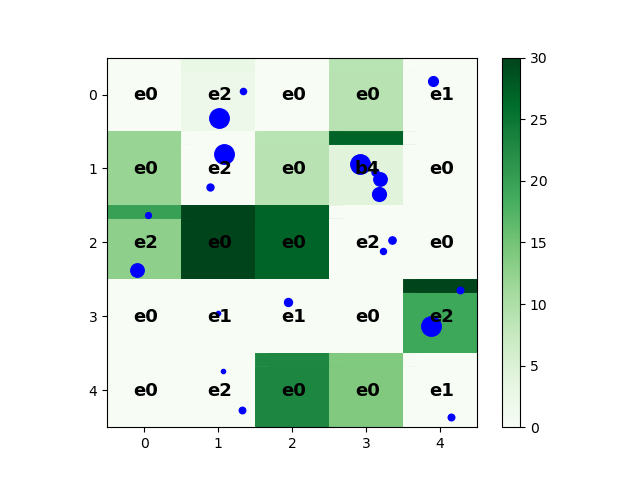
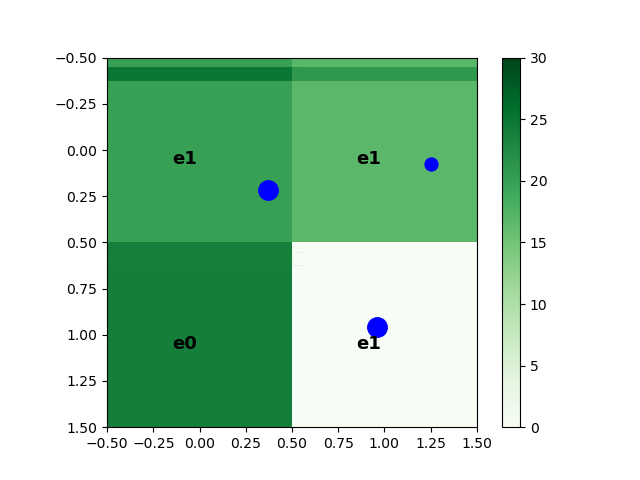
testing different cie values

diff --git a/classScientist.py b/classScientist.py
@@ -20,10 +20,29 @@ class Scientist():
         return overall
 
     def probCell(self, board, weights):
-        # Define the weights
-        c = weights["citation"] * (1/self.citcount)
-        i = weights["impact"] * (1/self.impact)
+        """"generates a probability distribution over the cells"""
+        citToCareer = (self.citcount-(31 - self.career))
+        # if they have a low citToCareer difference, then they value citations more
+        if citToCareer < 0:
+            c = weights["citation"] * abs(citToCareer)
+        elif citToCareer == 0:
+            c = weights["citation"]
+        # if they have a high citToCareer difference, then they value citations less
+        else:
+            c = weights["citation"] * (1/citToCareer)
+
+        impactToCareer = (self.impact-(31 - self.career))
+        # if they have a low impactToCareer difference, then they value impact more
+        if impactToCareer < 0:
+            i = weights["impact"] * abs(impactToCareer)
+        elif impactToCareer == 0:
+            i = weights["impact"]
+        # if they have a high impactToCareer difference, then they value impact less
+        else:
+            i = weights["impact"] * (1/impactToCareer)
+
         e = weights["exploration"]
+        print("cie: ", c, i, e)
 
         # Calculate the probabilities for each cell
         probabilities = np.zeros_like(board.board)
@@ -54,7 +73,7 @@ class Scientist():
         flatProbs = [item for sublist in probs for item in sublist]
         flatBoard = [board.board[i][j].location for j in range(board.cols) for i in range(board.rows)]
         choice = random.choices(flatBoard, weights=flatProbs, k=1)
-
+        
         return choice[0]
 
     def sciQuery(self, location, board):

diff --git a/Run.py b/Run.py
@@ -6,9 +6,9 @@ from classBoard import *
 from classScientist import *
 
 weights = {
-    "citation" : 0.1, 
-    "impact" : 1,
-    "exploration" : 0.1
+    "citation" : 0, 
+    "impact" : 0,
+    "exploration" : 1
 }
 
 def oneRun(board, cellsHit, numRun, weights):
@@ -34,7 +34,6 @@ def batchRun(board, numScientists, numRuns):
     At the end, an animation of the plots of each run is generated.
     """
     dept = [Scientist() for i in range(numScientists)]
-
     for j in range(numRuns):
         # keep track of which cells the scientists are hitting to check overlap
         cellsHit = {}
@@ -60,5 +59,5 @@ def batchRun(board, numScientists, numRuns):
             save_all=True, duration=500, loop=1)
     return
 
-board = Board(5, 5)
-batchRun(board, 20, 10)
+board = Board(2, 2)
+batchRun(board, 3, 10)
